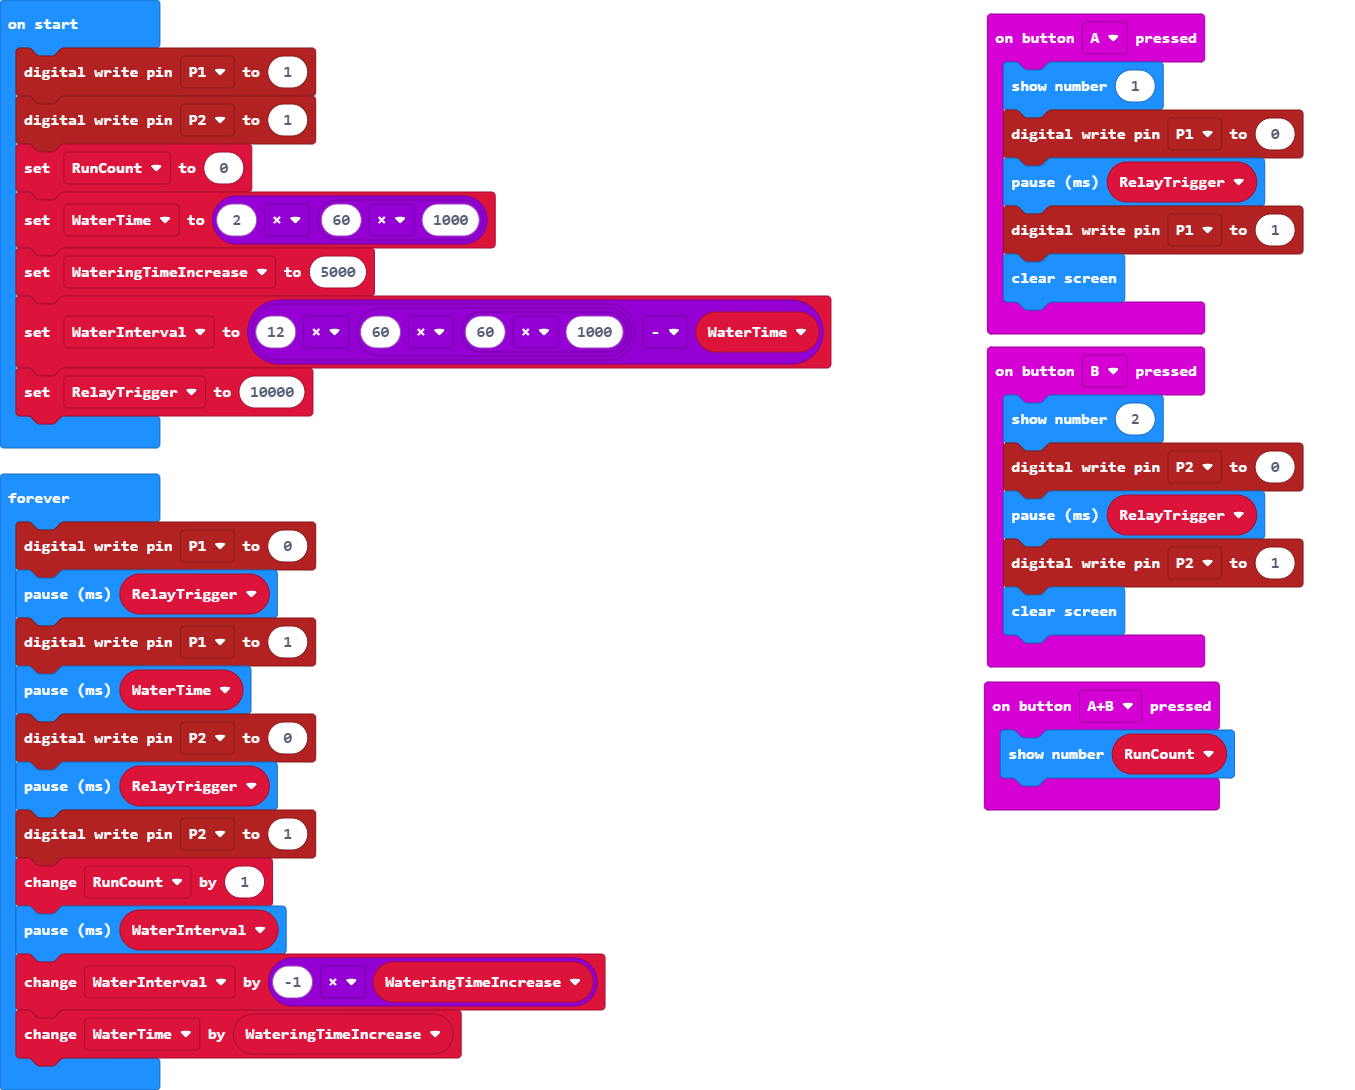
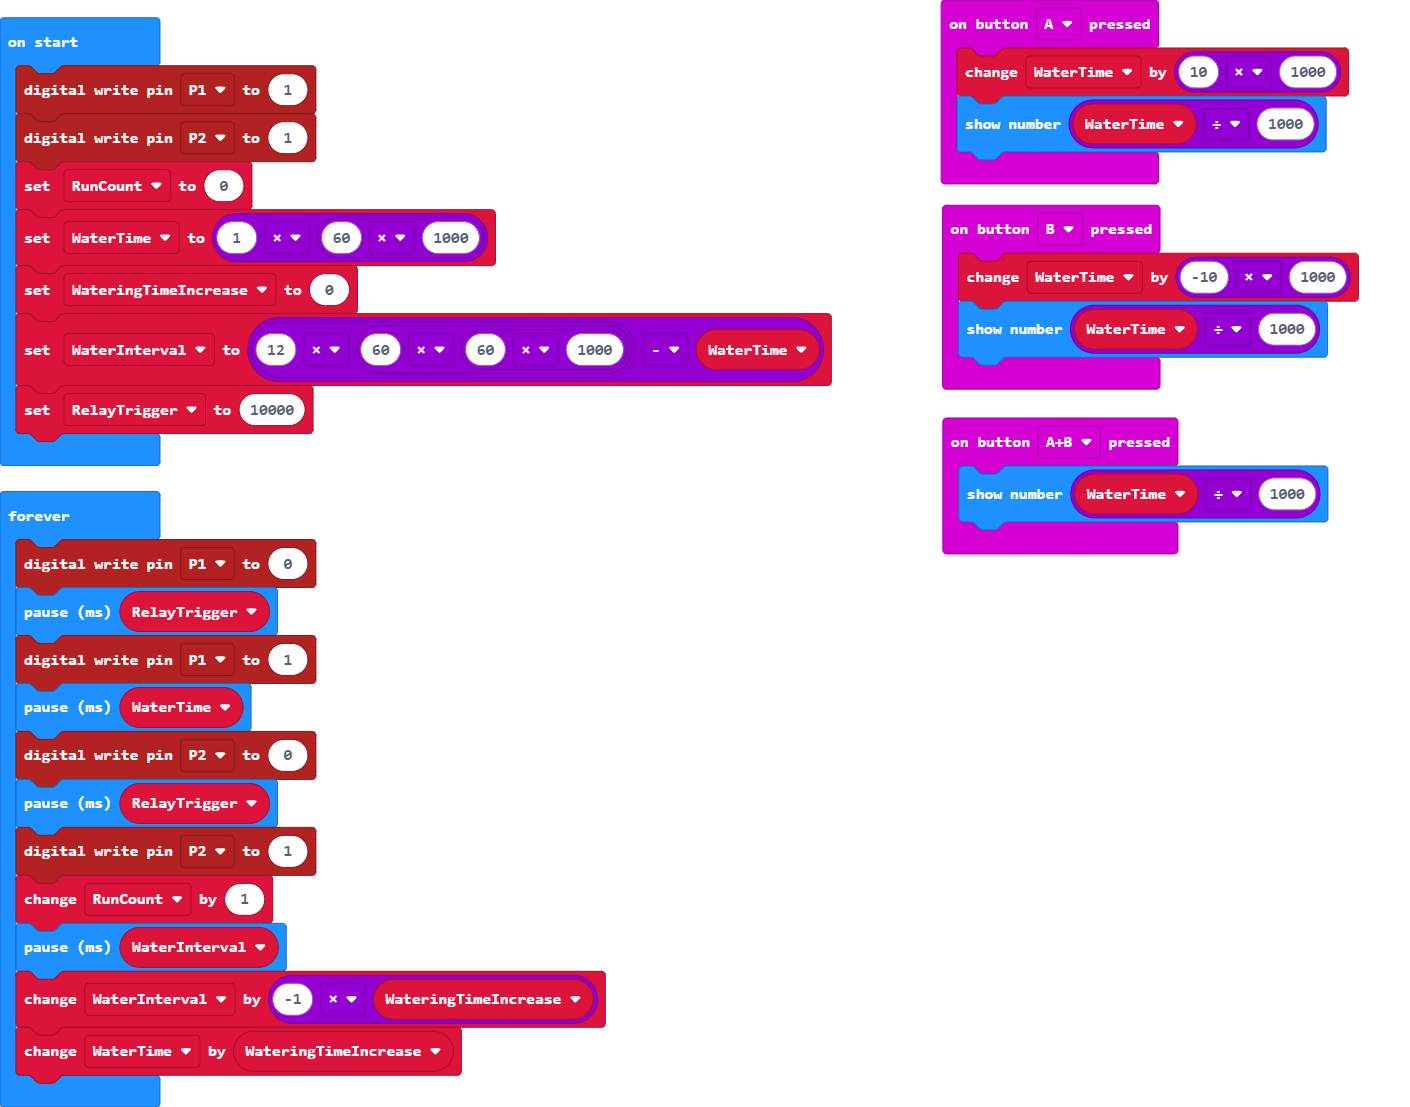
Update main.blocks, main.ts

Changed region(s): [[0.0, 0.0, 0.6199, 1.0], [0.6509, 0.0, 0.9609, 0.7486]]

diff --git a/main.ts b/main.ts
@@ -1,29 +1,22 @@
 input.onButtonPressed(Button.A, function () {
-    basic.showNumber(1)
-    pins.digitalWritePin(DigitalPin.P1, 0)
-    basic.pause(RelayTrigger)
-    pins.digitalWritePin(DigitalPin.P1, 1)
-    basic.clearScreen()
+    WaterTime += 10 * 1000
+    basic.showNumber(WaterTime / 1000)
 })
 input.onButtonPressed(Button.AB, function () {
-    basic.showNumber(RunCount)
+    basic.showNumber(WaterTime / 1000)
 })
 input.onButtonPressed(Button.B, function () {
-    basic.showNumber(2)
-    pins.digitalWritePin(DigitalPin.P2, 0)
-    basic.pause(RelayTrigger)
-    pins.digitalWritePin(DigitalPin.P2, 1)
-    basic.clearScreen()
+    WaterTime += -10 * 1000
+    basic.showNumber(WaterTime / 1000)
 })
-let RelayTrigger = 0
-let RunCount = 0
+let WaterTime = 0
 pins.digitalWritePin(DigitalPin.P1, 1)
 pins.digitalWritePin(DigitalPin.P2, 1)
-RunCount = 0
-let WaterTime = 2 * (60 * 1000)
-let WateringTimeIncrease = 5000
+let RunCount = 0
+WaterTime = 1 * (60 * 1000)
+let WateringTimeIncrease = 0
 let WaterInterval = 12 * (60 * (60 * 1000)) - WaterTime
-RelayTrigger = 10000
+let RelayTrigger = 10000
 basic.forever(function () {
     pins.digitalWritePin(DigitalPin.P1, 0)
     basic.pause(RelayTrigger)
